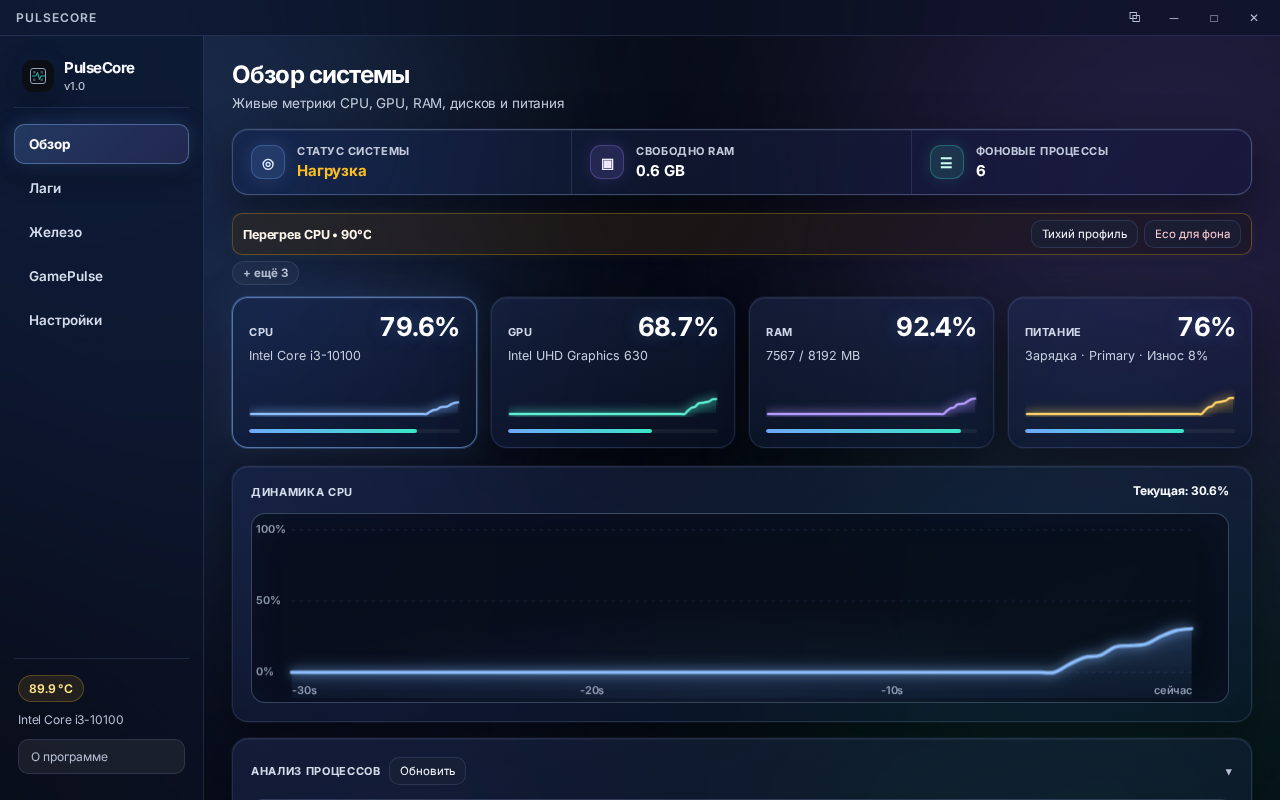
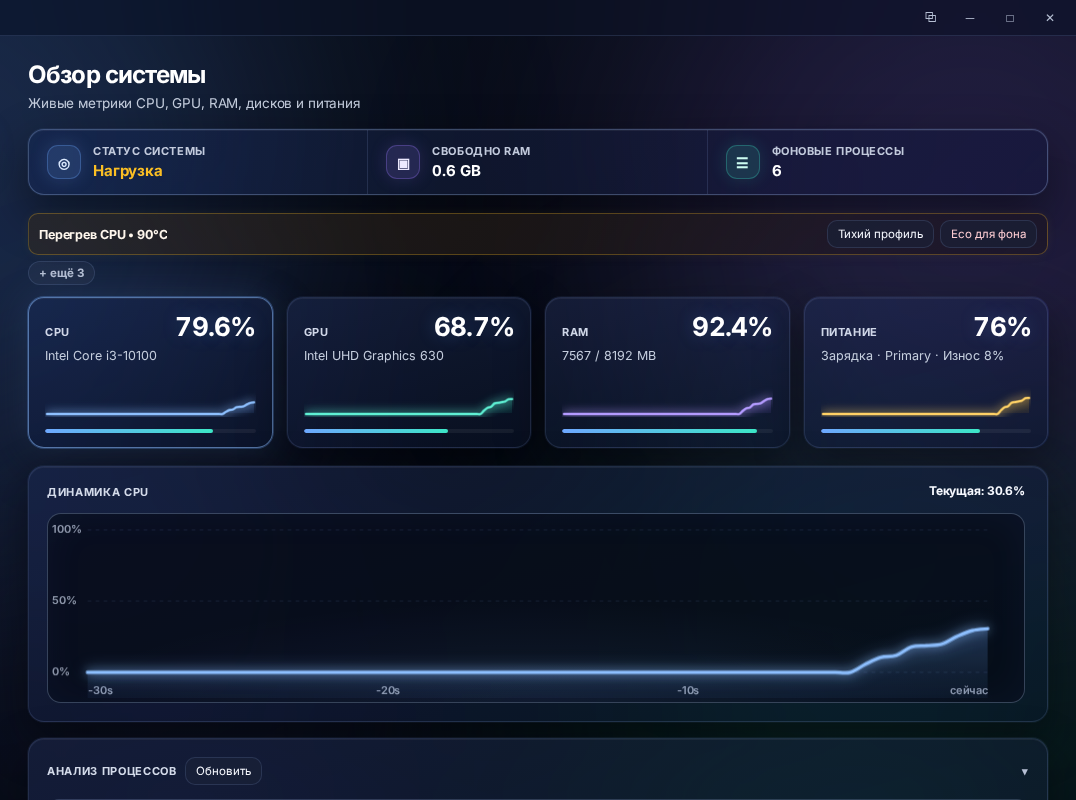
style: анимации лендинга и обрезка сайдбара в превью
Скрыт левый сайдбар в «Живой интерфейс», скользящий pill на вкладках,
fade+translate контента, scroll-reveal через IntersectionObserver.

diff --git a/docs/index.html b/docs/index.html
@@ -271,6 +271,7 @@
       padding: 14px;
     }
     .preview-tabs {
+      position: relative;
       display: flex;
       flex-wrap: nowrap;
       gap: 6px;
@@ -286,8 +287,26 @@
       max-width: 100%;
     }
     .preview-tabs::-webkit-scrollbar { display: none; }
+    .preview-tab-pill {
+      position: absolute;
+      top: 0;
+      left: 0;
+      z-index: 0;
+      border-radius: 999px;
+      background: rgba(110, 168, 255, 0.16);
+      border: 1px solid rgba(110, 168, 255, 0.35);
+      box-shadow: 0 0 20px rgba(110, 168, 255, 0.12);
+      pointer-events: none;
+      transition:
+        transform 0.28s cubic-bezier(0.22, 1, 0.36, 1),
+        width 0.28s cubic-bezier(0.22, 1, 0.36, 1),
+        height 0.28s cubic-bezier(0.22, 1, 0.36, 1);
+      will-change: transform, width, height;
+    }
     .preview-tabs button {
       appearance: none;
+      position: relative;
+      z-index: 1;
       border: 1px solid transparent;
       background: transparent;
       color: var(--muted);
@@ -302,14 +321,14 @@
       scroll-snap-align: start;
       touch-action: manipulation;
       -webkit-tap-highlight-color: transparent;
-      transition: none;
+      transition: color 0.2s ease;
     }
-    .preview-tabs button:hover { color: var(--text); background: rgba(255,255,255,0.04); }
+    .preview-tabs button:hover { color: var(--text); }
     .preview-tabs button.active {
       color: #eaf2ff;
-      background: rgba(110, 168, 255, 0.16);
-      border-color: rgba(110, 168, 255, 0.35);
-      box-shadow: 0 0 20px rgba(110, 168, 255, 0.12);
+      background: transparent;
+      border-color: transparent;
+      box-shadow: none;
     }
     .preview-frame {
       position: relative;
@@ -320,21 +339,34 @@
       isolation: isolate;
       margin: 0;
       padding: 0;
+      aspect-ratio: 1076 / 800;
+      width: 100%;
     }
     .preview-frame img {
+      position: absolute;
+      inset: 0;
       width: 100%;
-      height: auto;
-      max-width: 100%;
-      object-fit: contain;
+      height: 100%;
+      max-width: none;
+      object-fit: cover;
       object-position: top left;
-      display: none;
+      display: block;
       margin: 0;
       padding: 0;
       border: 0;
-      vertical-align: top;
+      opacity: 0;
+      transform: translateY(6px);
+      transition:
+        opacity 0.28s cubic-bezier(0.22, 1, 0.36, 1),
+        transform 0.28s cubic-bezier(0.22, 1, 0.36, 1);
+      pointer-events: none;
+      z-index: 0;
     }
     .preview-frame img.active {
-      display: block;
+      opacity: 1;
+      transform: translateY(0);
+      pointer-events: auto;
+      z-index: 1;
     }
 
     .bento {
@@ -350,12 +382,31 @@
       backdrop-filter: var(--blur);
       -webkit-backdrop-filter: var(--blur);
       padding: 20px 18px 18px;
-      transition: transform .2s ease, border-color .2s, box-shadow .2s;
+      transition: transform .2s ease, border-color .2s, box-shadow .2s, opacity 0.55s cubic-bezier(0.22, 1, 0.36, 1);
     }
     .card:hover {
       transform: translateY(-2px);
       border-color: rgba(110, 168, 255, 0.35);
       box-shadow: 0 18px 48px rgba(0,0,0,0.4), 0 0 28px rgba(110, 168, 255, 0.1);
+    }
+    .reveal {
+      opacity: 0;
+      transform: translateY(18px);
+      transition:
+        opacity 0.55s cubic-bezier(0.22, 1, 0.36, 1),
+        transform 0.55s cubic-bezier(0.22, 1, 0.36, 1);
+      transition-delay: var(--reveal-delay, 0ms);
+      will-change: opacity, transform;
+    }
+    .reveal.is-in {
+      opacity: 1;
+      transform: translateY(0);
+    }
+    .card.reveal.is-in {
+      transition: transform .2s ease, border-color .2s, box-shadow .2s;
+    }
+    .card.reveal.is-in:hover {
+      transform: translateY(-2px);
     }
     .card.span-2 { grid-column: span 2; }
     .card-icon {
@@ -399,6 +450,10 @@
       background: rgba(255,255,255,0.03);
       padding: 22px 18px;
       position: relative;
+      transition:
+        opacity 0.55s cubic-bezier(0.22, 1, 0.36, 1),
+        transform 0.55s cubic-bezier(0.22, 1, 0.36, 1);
+      transition-delay: var(--reveal-delay, 0ms);
     }
     .step::before {
       counter-increment: step;
@@ -479,10 +534,46 @@
       .card:hover {
         transform: none;
       }
+      .card.reveal.is-in:hover {
+        transform: translateY(0);
+      }
       .btn:hover { transform: none; }
-      .preview-tabs button,
       .btn {
         transition: none;
+      }
+    }
+
+    @media (prefers-reduced-motion: reduce) {
+      html { scroll-behavior: auto; }
+      .ambient-spot {
+        transition: none !important;
+        transform: none !important;
+      }
+      .preview-tab-pill {
+        transition: none !important;
+      }
+      .preview-frame img {
+        transition: none !important;
+        transform: none !important;
+      }
+      .preview-frame img:not(.active) {
+        opacity: 0;
+      }
+      .reveal {
+        opacity: 1 !important;
+        transform: none !important;
+        transition: none !important;
+      }
+      .card,
+      .step,
+      .btn {
+        transition: none !important;
+      }
+      .hero-logo,
+      .hero h1,
+      .hero p,
+      .cta-row {
+        animation: none !important;
       }
     }
 
@@ -604,58 +695,59 @@
     </header>
 
     <section class="section" id="preview">
-      <div class="section-head">
+      <div class="section-head reveal">
         <h2>Живой интерфейс</h2>
         <p>Так выглядит программа. Переключайте вкладки</p>
       </div>
-      <div class="preview-shell">
+      <div class="preview-shell reveal" style="--reveal-delay: 80ms">
         <div class="preview-tabs" role="tablist" aria-label="Вкладки превью">
+          <span class="preview-tab-pill" aria-hidden="true"></span>
           <button type="button" class="active" role="tab" aria-selected="true" data-tab="overview">Обзор</button>
           <button type="button" role="tab" aria-selected="false" data-tab="lags">Лаги</button>
           <button type="button" role="tab" aria-selected="false" data-tab="gamepulse">GamePulse</button>
           <button type="button" role="tab" aria-selected="false" data-tab="hardware">Железо</button>
         </div>
         <div class="preview-frame">
-          <img class="active" data-tab="overview" src="screenshots/overview.png" alt="Обзор системы PulseCore" width="1280" height="800" decoding="async" />
-          <img data-tab="lags" src="screenshots/lags.png" alt="Лаги и сеть" width="1280" height="800" decoding="async" />
-          <img data-tab="gamepulse" src="screenshots/gamepulse.png" alt="GamePulse FPS" width="1280" height="800" decoding="async" />
-          <img data-tab="hardware" src="screenshots/hardware-16threads.png" alt="Железо: сетка потоков CPU" width="1280" height="800" decoding="async" />
+          <img class="active" data-tab="overview" src="screenshots/overview.png" alt="Обзор системы PulseCore" width="1076" height="800" decoding="async" />
+          <img data-tab="lags" src="screenshots/lags.png" alt="Лаги и сеть" width="1076" height="800" decoding="async" />
+          <img data-tab="gamepulse" src="screenshots/gamepulse.png" alt="GamePulse FPS" width="1076" height="800" decoding="async" />
+          <img data-tab="hardware" src="screenshots/hardware-16threads.png" alt="Железо: сетка потоков CPU" width="1076" height="800" decoding="async" />
         </div>
       </div>
     </section>
 
     <section class="section" id="features">
-      <div class="section-head">
+      <div class="section-head reveal">
         <h2>Всё для контроля и плавной работы ПК</h2>
         <p>Лёгкая программа для Windows, которая не грузит систему и помогает убрать фризы</p>
       </div>
       <div class="bento">
-        <article class="card span-2">
+        <article class="card span-2 reveal" style="--reveal-delay: 0ms">
           <div class="card-icon">⚡</div>
           <h3>Микролаги + Eco</h3>
           <p>Находит программы, из-за которых игра начинает дёргаться, и в один клик урезает им лишний аппетит без закрытия</p>
         </article>
-        <article class="card teal">
+        <article class="card teal reveal" style="--reveal-delay: 70ms">
           <div class="card-icon">🎯</div>
           <h3>FPS</h3>
           <p>Показывает, сколько кадров в секунду потянет ваш ПК в популярных играх на низких, средних и высоких настройках</p>
         </article>
-        <article class="card">
+        <article class="card reveal" style="--reveal-delay: 140ms">
           <div class="card-icon">⧉</div>
           <h3>Mini-HUD</h3>
           <p>Компактная панель поверх окон и игр: температура процессора, загрузка видеокарты и памяти всегда перед глазами</p>
         </article>
-        <article class="card teal">
+        <article class="card teal reveal" style="--reveal-delay: 210ms">
           <div class="card-icon">🛡</div>
           <h3>Без админа</h3>
           <p>Запускается сразу после скачивания без сложных настроек и лишних разрешений системы</p>
         </article>
-        <article class="card">
+        <article class="card reveal" style="--reveal-delay: 280ms">
           <div class="card-icon">🔒</div>
           <h3>Приватность</h3>
           <p>Программа работает локально на вашем компьютере и никуда не отправляет личные данные</p>
         </article>
-        <article class="card teal">
+        <article class="card teal reveal" style="--reveal-delay: 350ms">
           <div class="card-icon">💨</div>
           <h3>Ресурсы</h3>
           <p>Занимает минимум памяти и не мешает играм, в отличие от тяжёлых программ мониторинга</p>
@@ -664,20 +756,20 @@
     </section>
 
     <section class="section" id="start">
-      <div class="section-head">
+      <div class="section-head reveal">
         <h2>Быстрый старт</h2>
         <p>Три простых шага на Windows 10 или 11</p>
       </div>
       <div class="steps">
-        <div class="step">
+        <div class="step reveal" style="--reveal-delay: 0ms">
           <h3>Скачайте программу</h3>
           <p>Откройте страницу Releases и скачайте архив для Windows.</p>
         </div>
-        <div class="step">
+        <div class="step reveal" style="--reveal-delay: 80ms">
           <h3>Распакуйте архив</h3>
           <p>Распакуйте архив и найдите внутри файл PulseCore.exe.</p>
         </div>
-        <div class="step">
+        <div class="step reveal" style="--reveal-delay: 160ms">
           <h3>Запустите</h3>
           <p>Дважды щёлкните по PulseCore.exe. Готово.</p>
         </div>
@@ -729,6 +821,9 @@
       const tabs = [...document.querySelectorAll(".preview-tabs button")];
       const frames = [...document.querySelectorAll(".preview-frame img")];
       const frame = document.querySelector(".preview-frame");
+      const tablist = document.querySelector(".preview-tabs");
+      const pill = document.querySelector(".preview-tab-pill");
+      const reduceMotion = window.matchMedia("(prefers-reduced-motion: reduce)");
 
       // Eager decode / warm cache (no loading=lazy)
       frames.forEach((img) => {
@@ -737,18 +832,48 @@
         if (img.decode) img.decode().catch(() => {});
       });
 
+      const movePill = (btn, instant) => {
+        if (!pill || !tablist || !btn) return;
+        const left = btn.offsetLeft;
+        const top = btn.offsetTop;
+        if (instant) pill.style.transition = "none";
+        pill.style.width = btn.offsetWidth + "px";
+        pill.style.height = btn.offsetHeight + "px";
+        pill.style.transform = "translate(" + left + "px, " + top + "px)";
+        if (instant) {
+          void pill.offsetWidth;
+          pill.style.transition = "";
+        }
+      };
+
       const activate = (id) => {
+        let activeBtn = null;
         tabs.forEach((b) => {
           const on = b.dataset.tab === id;
           b.classList.toggle("active", on);
           b.setAttribute("aria-selected", on ? "true" : "false");
-          if (on) b.scrollIntoView({ inline: "nearest", block: "nearest", behavior: "auto" });
+          if (on) {
+            activeBtn = b;
+            b.scrollIntoView({ inline: "nearest", block: "nearest", behavior: "auto" });
+          }
         });
         frames.forEach((img) => img.classList.toggle("active", img.dataset.tab === id));
+        if (activeBtn) {
+          requestAnimationFrame(() => movePill(activeBtn, reduceMotion.matches));
+        }
       };
       tabs.forEach((btn) => {
         btn.addEventListener("click", () => activate(btn.dataset.tab));
       });
+      const syncPill = () => {
+        const active = tabs.find((b) => b.classList.contains("active")) || tabs[0];
+        movePill(active, true);
+      };
+      syncPill();
+      window.addEventListener("resize", syncPill, { passive: true });
+      if (document.fonts && document.fonts.ready) {
+        document.fonts.ready.then(syncPill).catch(() => {});
+      }
 
       if (frame) {
         let x0 = 0;
@@ -775,6 +900,27 @@
         }, { passive: true });
         frame.addEventListener("pointercancel", () => { tracking = false; }, { passive: true });
       }
+
+      const reveals = [...document.querySelectorAll(".reveal")];
+      const showAllReveals = () => {
+        reveals.forEach((el) => el.classList.add("is-in"));
+      };
+      if (reduceMotion.matches || !("IntersectionObserver" in window)) {
+        showAllReveals();
+      } else {
+        const io = new IntersectionObserver((entries) => {
+          entries.forEach((entry) => {
+            if (!entry.isIntersecting) return;
+            entry.target.classList.add("is-in");
+            io.unobserve(entry.target);
+          });
+        }, { threshold: 0.14, rootMargin: "0px 0px -6% 0px" });
+        reveals.forEach((el) => io.observe(el));
+      }
+      reduceMotion.addEventListener("change", (e) => {
+        if (e.matches) showAllReveals();
+        syncPill();
+      });
     })();
   </script>
 </body>
